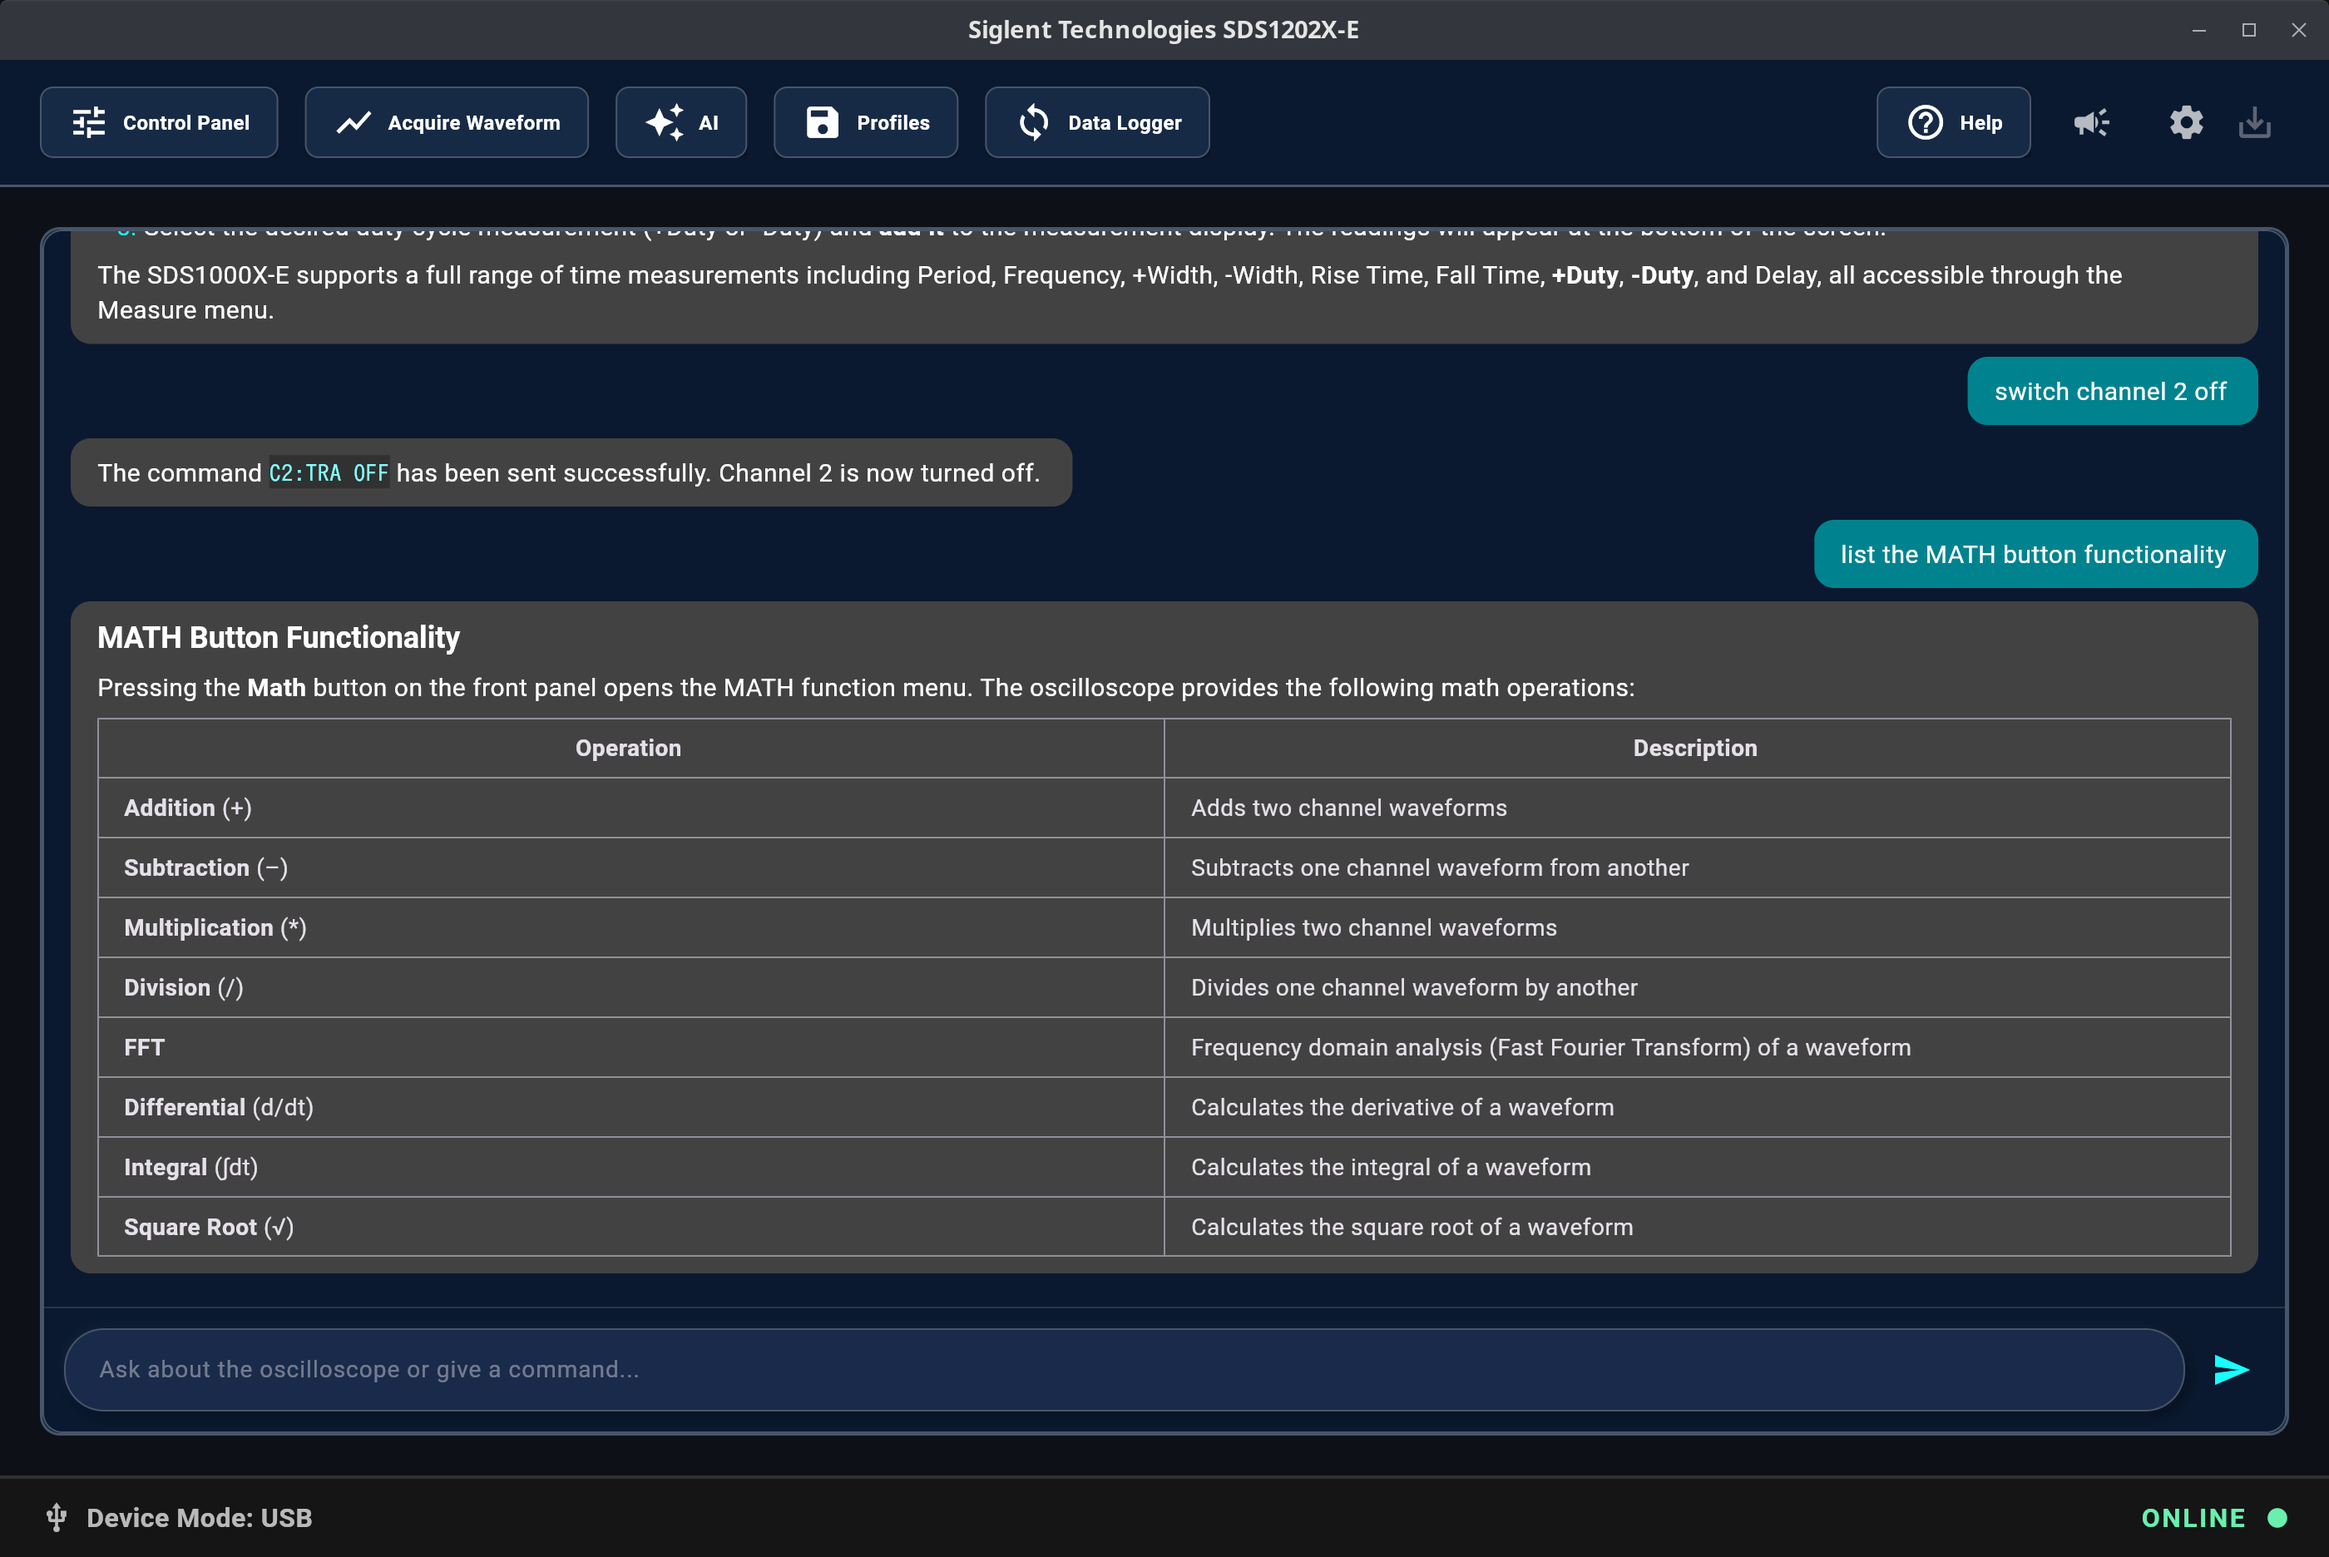
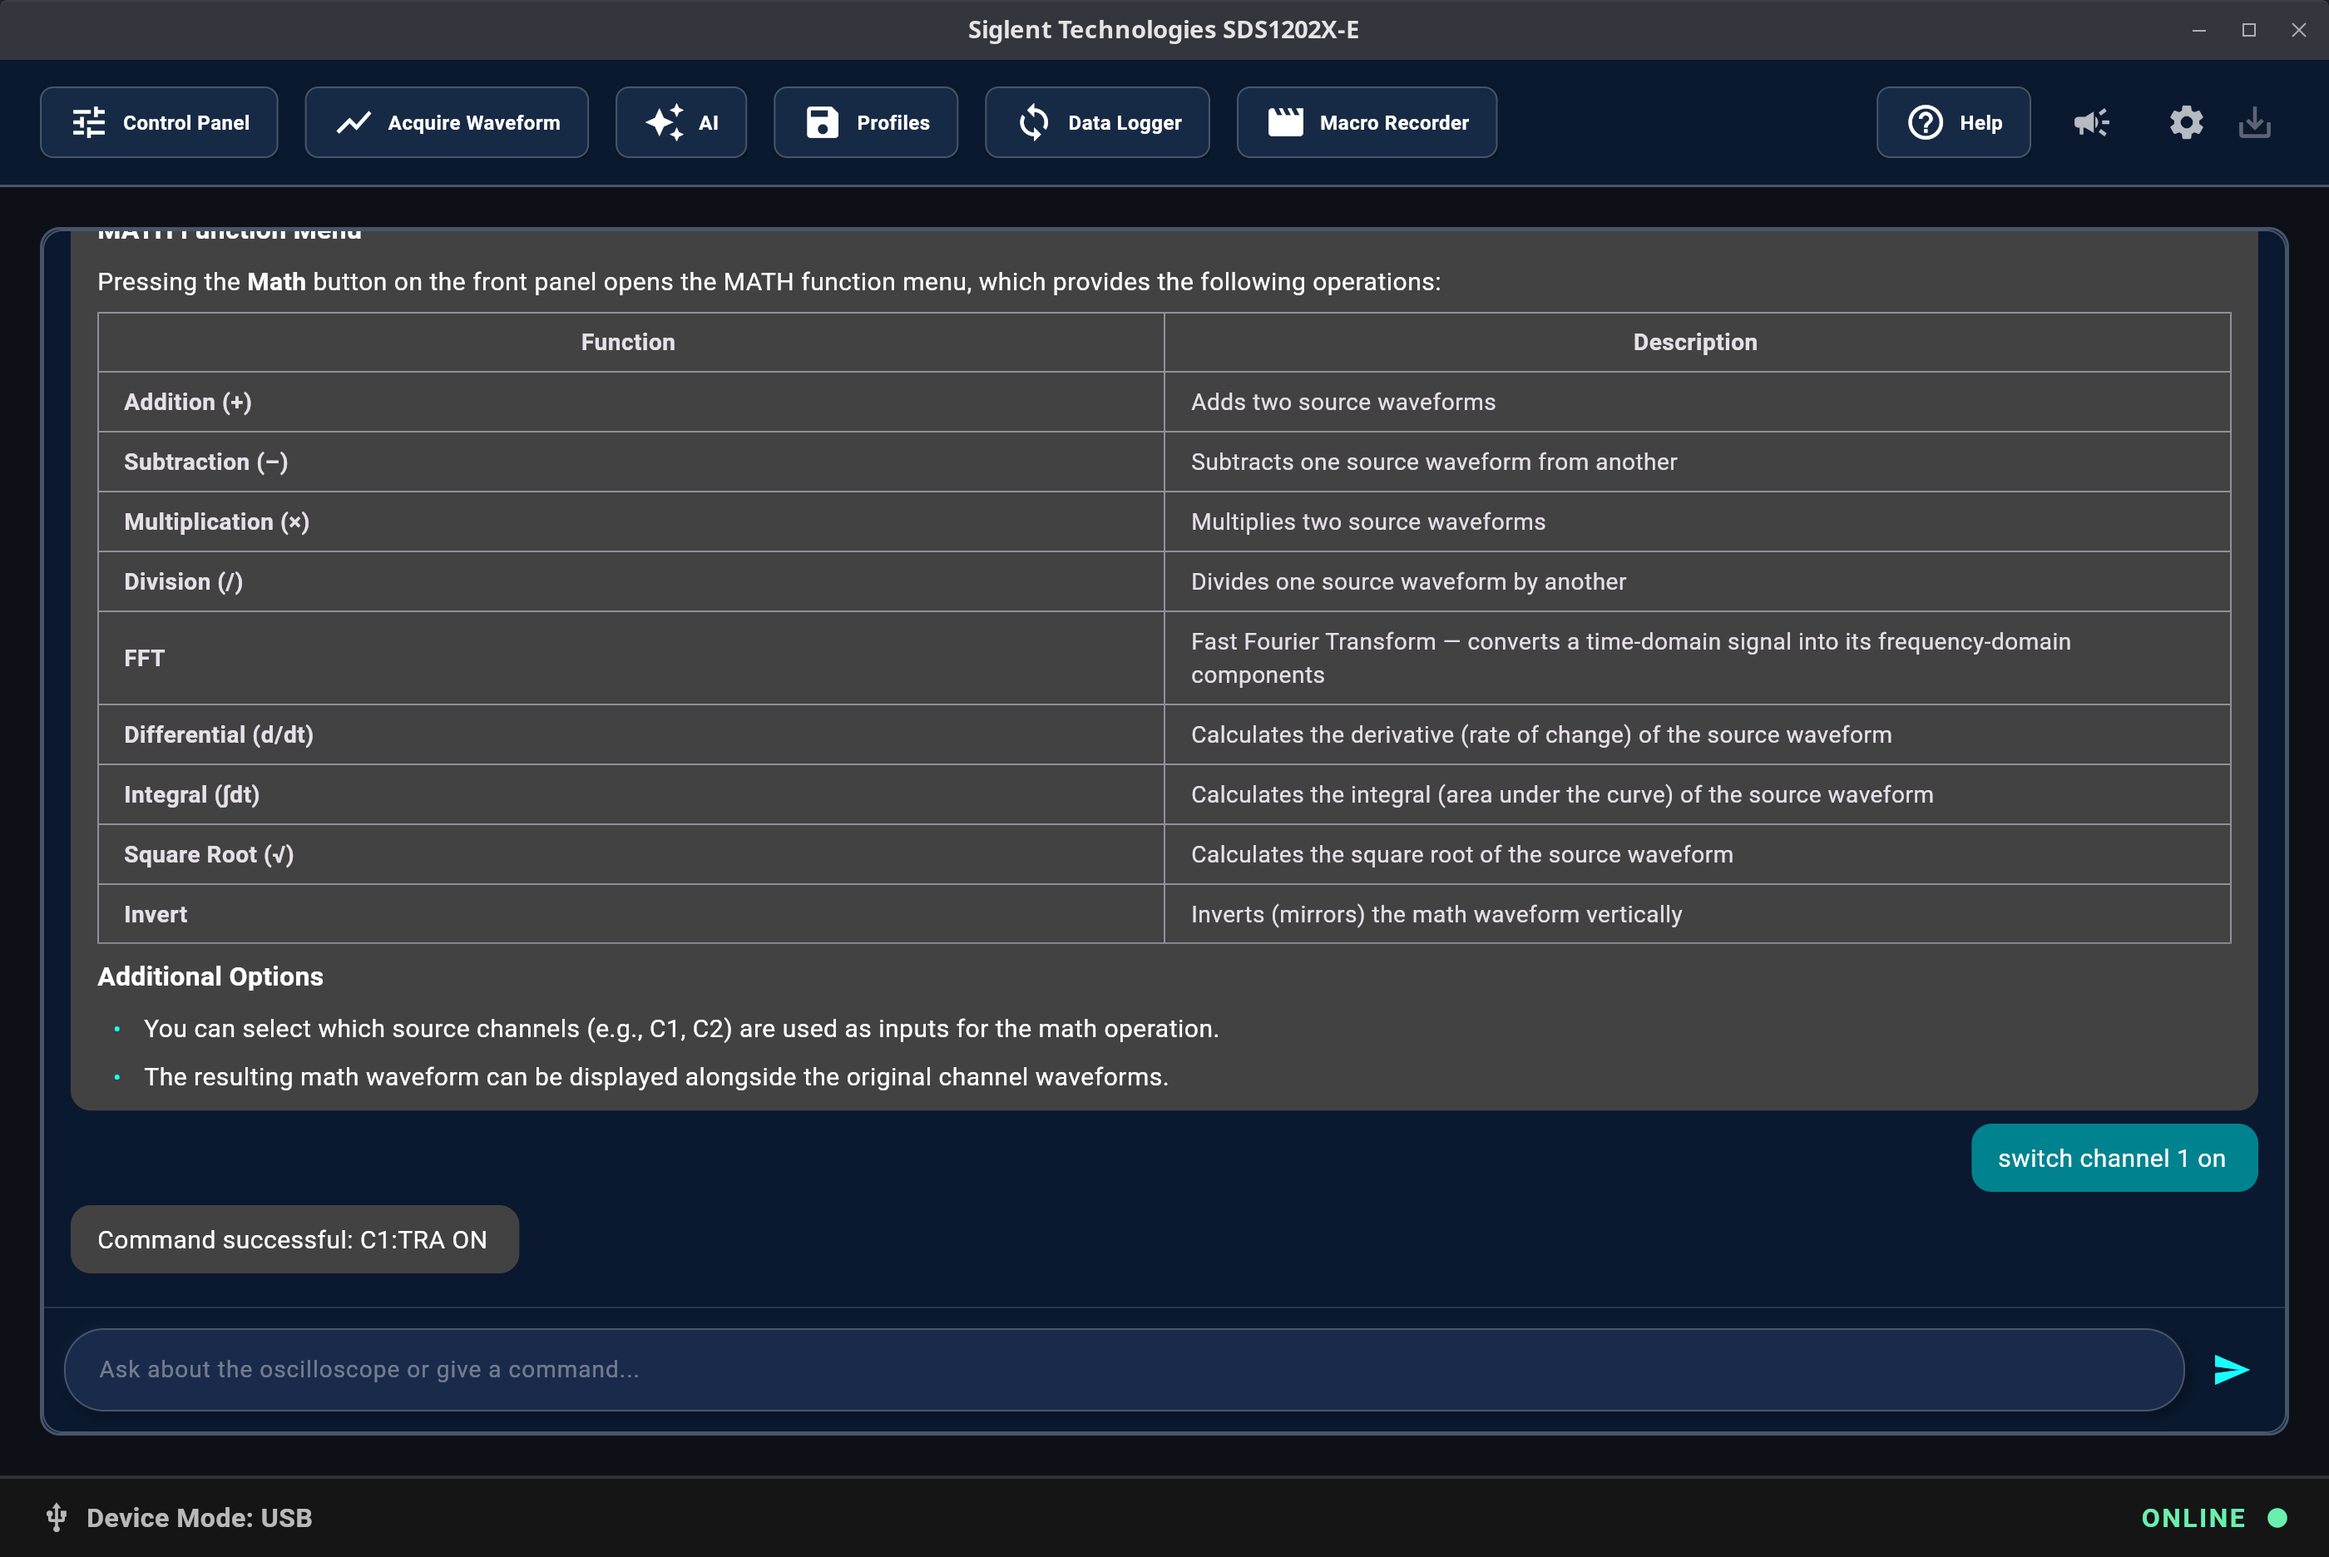
Refactor code structure for improved readability and maintainability

Changed region(s): [[0.0311, 0.1239, 0.9943, 0.8365], [0.5282, 0.062, 0.6214, 0.0929]]

diff --git a/lib/main.dart b/lib/main.dart
@@ -1235,7 +1235,7 @@ class _OsciHomePageState extends State<OsciHomePage>
       _isMacroRecording = true;
       _isMacroModified = true;
       _loadedMacroFileName = null;
-      _currentMacroContent = 'connect("$_ipAddress")\n';
+      _currentMacroContent = _isUsb ? 'connect(usb)\n' : 'connect("$_ipAddress")\n';
     });
 
     onScpiCommandSent = (command, operation) {
@@ -1270,6 +1270,7 @@ class _OsciHomePageState extends State<OsciHomePage>
   ///
   /// Supported commands:
   ///   `connect("IP")`            — Establish a VXI-11 connection to the given device.
+  ///   `connect(usb)`             — Connect via USBTMC (auto-detects the device).
   ///   `wait(<seconds>)`          — Pause playback for the given number of seconds.
   ///   `loadProfile("path")`      — Load and send a profile (.lss) file to the device.
   ///   `scpi("CMD")`              — Send a raw SCPI command to the device.
@@ -1736,11 +1737,38 @@ class _OsciHomePageState extends State<OsciHomePage>
         continue;
       }
 
+      // ── connect(usb) ──────────────────────────────────────────────────
+      if (line == 'connect(usb)') {
+        AppLogger().log('Macro playback: connect via USB (USBTMC)');
+
+        await _playbackInstrument?.close();
+        try {
+          Vxi11Instrument.isUsbMode = true;
+          // Use a dummy host — USB mode auto-detects the device and ignores host.
+          final instr = Vxi11Instrument('usb', sourceLabel: 'macroPlay');
+          await instr.open(timeoutSeconds: 5.0);
+          _playbackInstrument = instr;
+        } catch (e) {
+          await _playbackInstrument?.close();
+          _playbackInstrument = null;
+          Vxi11Instrument.isUsbMode = false;
+          _showMacroError('connect(usb) failed: $e');
+          return lines.length;
+        }
+        if (_macroPlaybackCancelled) return lines.length;
+        await _macroDelay();
+        i++;
+        continue;
+      }
+
       // ── connect("IP") ────────────────────────────────────────────────
       final connectMatch = RegExp(r"""^connect\("(.+)"\)$""").firstMatch(line);
       if (connectMatch != null) {
         final ip = connectMatch.group(1)!;
         AppLogger().log('Macro playback: connect to $ip');
+
+        // Ensure USB mode is off when connecting via IP.
+        Vxi11Instrument.isUsbMode = false;
 
         // Always open a dedicated connection for macro playback.
         // Reusing the main instrument can cause "Connection not open"

diff --git a/docs/manual.md b/docs/manual.md
@@ -268,7 +268,7 @@ Clicking the **Edit** button or the **Load** button on a file opens the Macro Ed
 
 1. Ensure the oscilloscope is connected and online.
 2. Open the **Macro Recorder** panel and click **Record**.
-3. A `connect("IP")` line is automatically inserted at the start of the macro.
+3. A `connect("IP")` line is automatically inserted at the start of the macro (or `connect(usb)` if USB connection mode is active).
 4. Perform actions through the AI chat, Control Panel, or load a device profile — each SCPI command is automatically appended to the macro.
 5. Click **Stop** when finished.
 6. Review the recorded commands in the editor (click **Edit**).
@@ -298,6 +298,14 @@ connect("192.168.1.100")
 ```
 
 Establishes a VXI-11 connection to the oscilloscope at the given IP address. This is always the first command in a recorded macro. Only one `connect` statement should appear per macro.
+
+```
+connect(usb)
+```
+
+> ⚠ **Experimental** — USB direct connection support for macros is experimental and may not work reliably on all systems. Requires a USBTMC-compatible oscilloscope connected via USB.
+
+Connects to the oscilloscope via USBTMC (USB) instead of network. The device is auto-detected — no IP address is needed. When recording a macro while the application is in USB connection mode, `connect(usb)` is automatically inserted instead of `connect("IP")`.
 
 #### 7.5.2 SCPI Commands
 
@@ -538,7 +546,7 @@ Files are stored in various subfolders of the application directory, depending o
 
 * Protocol: VXI-11 over TCP/IP or USB direct connect
 * Command Interface: SCPI
-* Network-based operation only (USB connections are not supported).
+* Network-based and USB connections are supported.
 
 ### Data Formats
 

diff --git a/README.md b/README.md
@@ -16,6 +16,7 @@ SDS-Remote enables remote control and AI-enhanced operation of Siglent SDS1202X-
 - **Waveform Acquisition & Data Export**: Capture and display waveform data from enabled channels. Save screen captures as images and export waveform data as CSV files.
 - **Device Parameter Monitoring**: View real-time parameters such as timebase, sample rate, and voltage settings. Cursor-based measurements are supported.
 - **Data Logging**: Log key data points over a period of time. Generate PDF measurement reports containing charts and key metrics, or export all recorded measurement points as CSV files.
+- **Macro Recorder**: Record, edit and play back SCPI command sequences. Supports variables, conditionals, loops, and both network and USB connections for automated test procedures.
 
 ### Waveform Data Acquisition
 
@@ -46,6 +47,14 @@ Send commands and query oscilloscope functionality using natural-language prompt
  Log key measurement data over configurable durations ranging from 1 minute to 24 hours. Measure frequency drift and peak-to-peak voltage variations and generate reports with a detailed diagram, start/end and min/max values. All data points can also be saved in a separate csv file.
 
 ![Data Logger](docs/sdsremote_dl.png)
+
+### Macro Recorder
+
+Record, edit and play back SCPI command sequences to automate repetitive measurement and configuration tasks. Supports variables, conditionals (`if`/`else`), loops (`while`), assertions, and both network (`connect("IP")`) and USB (`connect(usb)`) connections.
+
+> ⚠ USB connection support in macros is experimental.
+
+![Macro Recorder](docs/sdsremote_mr.png)
 ---
 
 ## 2. Installation
